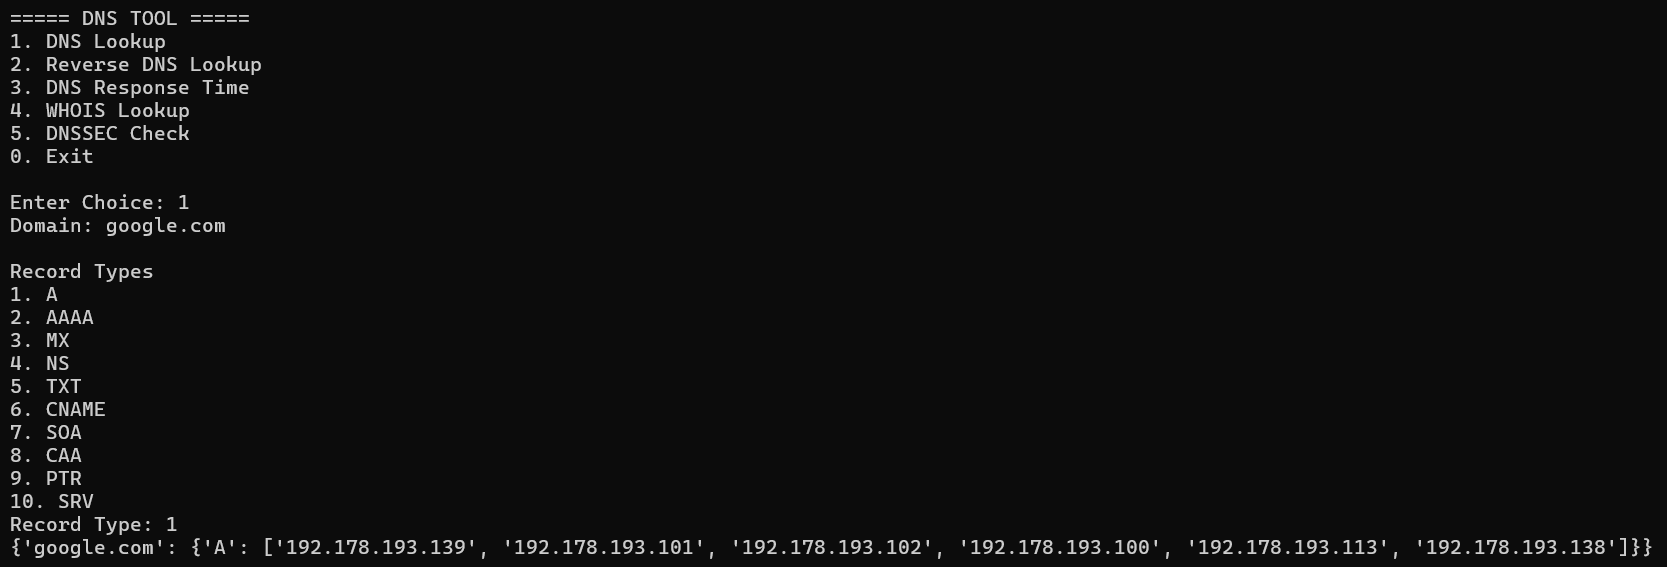
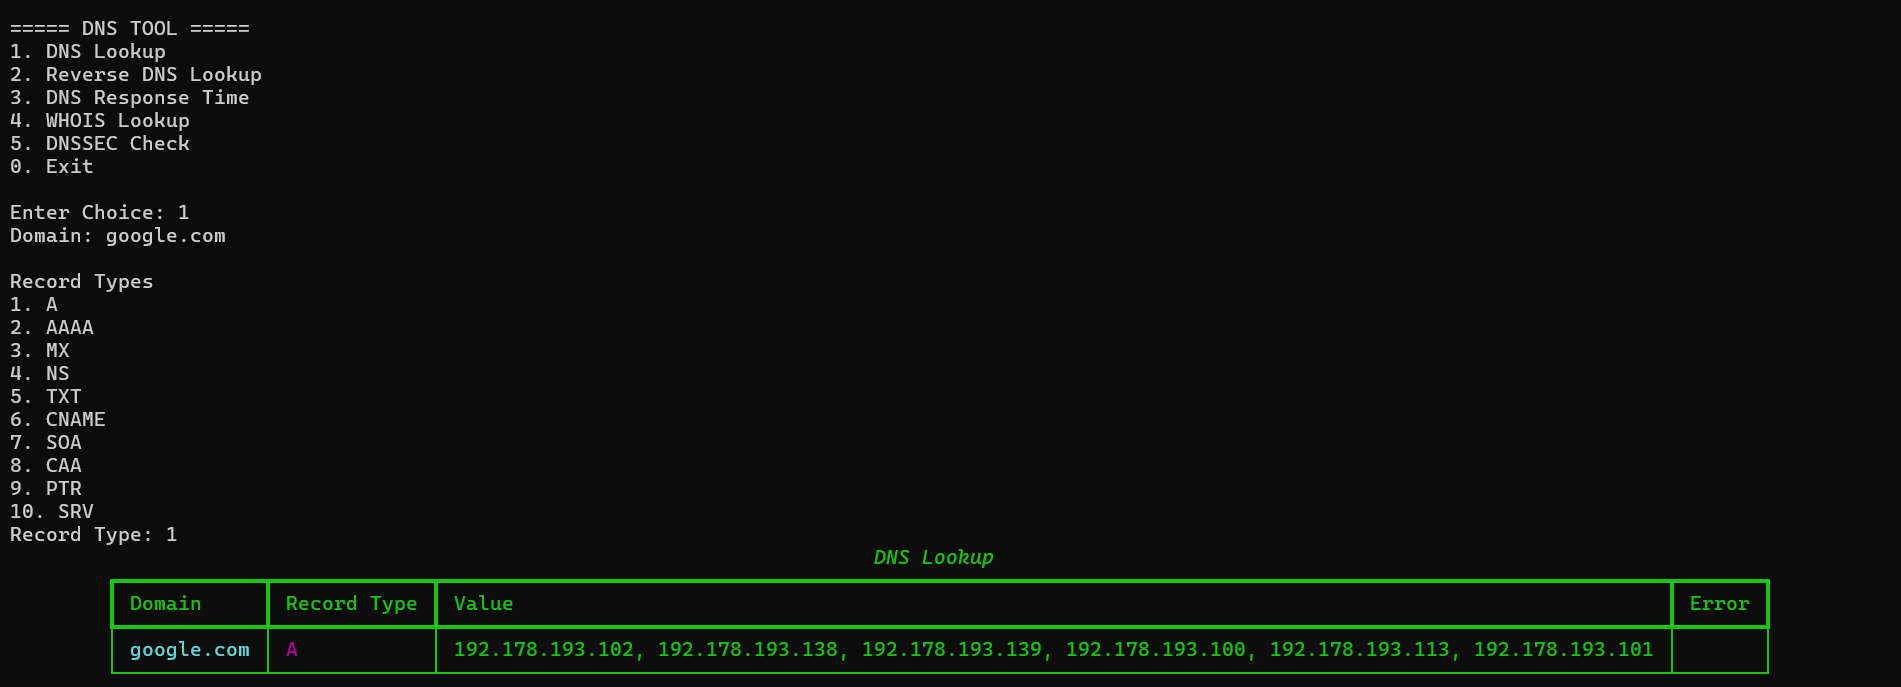
CLI

Changed region(s): [[0.0, 0.0, 0.9982, 0.9894]]

diff --git a/modules/whois_lookup.py b/modules/whois_lookup.py
@@ -1,7 +1,20 @@
 import whois
+from datetime import date, datetime
+from rich.table import Table
 
 
 class WhoisLookup:
+
+    def __init__(self):
+        self.table = Table(title="Whois Lookup")
+        self.table.add_column("Domain", style="cyan", no_wrap=True)
+        self.table.add_column("Registrar", style="magenta")
+        self.table.add_column("Creation Date", style="green")
+        self.table.add_column("Expiration Date", style="blue")
+        self.table.add_column("Updated Date", style="yellow")
+        self.table.add_column("Name Servers", style="red")
+        self.table.add_column("Status", style="purple")
+        self.table.add_column("Emails", style="bright_magenta")
 
     def lookup(self, domain):
         try:
@@ -9,22 +22,42 @@ class WhoisLookup:
 
             parsed = self._parse(data)
 
+            self.table.add_row(
+                parsed.get("domain_name", ""),
+                parsed.get("registrar", ""),
+                parsed.get("creation_date", ""),
+                parsed.get("expiration_date", ""),
+                parsed.get("updated_date", ""),
+                parsed.get("name_servers", ""),
+                parsed.get("status", ""),
+                parsed.get("emails", "")
+            )
             return self._format(parsed)
 
         except Exception as e:
+            self.table.add_row(domain, "", "", "", "", "", "", f"Error: {str(e)}")
             return self._handle_error(e)
 
     def _parse(self, data):
         return {
-            "domain_name": data.domain_name,
-            "registrar": data.registrar,
-            "creation_date": data.creation_date,
-            "expiration_date": data.expiration_date,
-            "updated_date": data.updated_date,
-            "name_servers": data.name_servers,
-            "status": data.status,
-            "emails": data.emails,
+            "domain_name": self._stringify(data.domain_name),
+            "registrar": self._stringify(data.registrar),
+            "creation_date": self._stringify(data.creation_date),
+            "expiration_date": self._stringify(data.expiration_date),
+            "updated_date": self._stringify(data.updated_date),
+            "name_servers": self._stringify(data.name_servers),
+            "status": self._stringify(data.status),
+            "emails": self._stringify(data.emails),
         }
+
+    def _stringify(self, value):
+        if value is None:
+            return ""
+        if isinstance(value, (list, tuple, set)):
+            return ", ".join(self._stringify(item) for item in value)
+        if isinstance(value, (datetime, date)):
+            return value.strftime("%Y-%m-%d %H:%M:%S")
+        return str(value)
 
     def _format(self, data):
         return {

diff --git a/main.py b/main.py
@@ -3,6 +3,9 @@ from modules.reverse_lookup import ReverseLookup
 from modules.response_time import DNSResponseTime
 from modules.whois_lookup import WhoisLookup
 from modules.dnssec import DNSSEC
+from modules.export_json import Export
+
+from rich.console import Console
 
 
 class DNSTool:
@@ -13,6 +16,7 @@ class DNSTool:
         self.response_time = DNSResponseTime()
         self.whois_lookup = WhoisLookup()
         self.dnssec = DNSSEC()
+        self.exporter = Export()
 
     def menu(self):
         while True:
@@ -47,6 +51,17 @@ class DNSTool:
 
             else:
                 print("Invalid Choice")
+
+    def _export_result(self, data, prefix, domain=None):
+        filename = self.exporter.build_filename(prefix, domain)
+        result = self.exporter.export_json(data, filename)
+
+        if result.get("status") == "success":
+            print(f"Exported to {result['file']}")
+        else:
+            print(f"Export failed: {result.get('message', 'Unknown error')}")
+
+        return result
 
     def dns_lookup_menu(self):
         domain = input("Domain: ").strip()
@@ -84,14 +99,16 @@ class DNSTool:
 
         result = self.dns_lookup.lookup(domain, record_map[choice])
 
-        print(result)
+        self._export_result(result, "dns_lookup", domain)
+        Console().print(self.dns_lookup.table, justify="center", style="bold green")
 
     def reverse_lookup_menu(self):
         ip = input("IP Address: ").strip()
 
         result = self.reverse_lookup.lookup(ip)
 
-        print(result)
+        self._export_result(result, "reverse_lookup", ip)
+        Console().print(self.reverse_lookup.table, justify="center", style="bold green")
 
     def response_time_menu(self):
         domain = input("Domain: ").strip()
@@ -132,21 +149,24 @@ class DNSTool:
             record_map[choice]
         )
 
-        print(result)
+        self._export_result(result, "response_time", domain)
+        Console().print(result, justify="center", style="bold green")
 
     def whois_lookup_menu(self):
         domain = input("Domain: ").strip()
 
         result = self.whois_lookup.lookup(domain)
 
-        print(result)
+        self._export_result(result, "whois_lookup", domain)
+        Console().print(self.whois_lookup.table, justify="center", style="bold green")
 
     def dnssec_menu(self):
         domain = input("Domain: ").strip()
 
         result = self.dnssec.check(domain)
 
-        print(result)
+        self._export_result(result, "dnssec", domain)
+        Console().print(self.dnssec.table, justify="center", style="bold green")
 
 
 if __name__ == "__main__":

diff --git a/modules/dnssec.py b/modules/dnssec.py
@@ -1,23 +1,42 @@
 import dns.resolver
+from rich.table import Table
 
 
 class DNSSEC:
+
+    def __init__(self):
+        self.table = Table(title="DNSSEC Check")
+        self.table.add_column("Domain", style="cyan", no_wrap=True)
+        self.table.add_column("Enabled", style="green")
+        self.table.add_column("DNSKEY", style="magenta")
+        self.table.add_column("DS", style="blue")
+        self.table.add_column("RRSIG", style="yellow")
 
     def check(self, domain):
         try:
             dnskey = self._query_dnskey(domain)
             ds = self._query_ds(domain)
             rrsig = self._query_rrsig(domain)
+            enabled = bool(dnskey and ds and rrsig)
+
+            self.table.add_row(
+                domain,
+                "Yes" if enabled else "No",
+                "\n".join(dnskey) if dnskey else "Not found",
+                "\n".join(ds) if ds else "Not found",
+                "\n".join(rrsig) if rrsig else "Not found",
+            )
 
             return {
                 "domain": domain,
-                "dnssec_enabled": bool(dnskey and ds and rrsig),
+                "dnssec_enabled": enabled,
                 "DNSKEY": dnskey,
                 "DS": ds,
                 "RRSIG": rrsig,
             }
 
         except Exception as e:
+            self.table.add_row(domain, "Error", "", "", f"Error: {str(e)}")
             return self._handle_error(e)
 
     def _query_dnskey(self, domain):

diff --git a/modules/response_time.py b/modules/response_time.py
@@ -1,8 +1,16 @@
 import time
 import dns.resolver
+from rich.table import Table
 
 
 class DNSResponseTime:
+    def __init__(self):
+        self.table = Table(title="DNS Response Time")
+        self.table.add_column("Domain", style="cyan", no_wrap=True)
+        self.table.add_column("Record Type", style="magenta")
+        self.table.add_column("Response Time (ms)", style="green")
+        self.table.add_column("Records", style="blue")
+
     def measure(self, domain, record_type="A"):
         try:
             resolver = self._create_resolver()
@@ -12,12 +20,9 @@ class DNSResponseTime:
 
             end_time = time.perf_counter()
 
-            return {
-                "domain": domain,
-                "record_type": record_type,
-                "response_time_ms": self._calculate_time(start_time, end_time),
-                "records": [str(ans) for ans in answers]
-            }
+            self.table.add_row(domain, record_type, str(self._calculate_time(start_time, end_time)), ", ".join([str(ans) for ans in answers]))
+
+            return self.table
 
         except Exception as e:
             return self._handle_error(e)

diff --git a/modules/dns_lookup.py b/modules/dns_lookup.py
@@ -1,9 +1,15 @@
 import dns.resolver
+from rich.table import Table
 
 
 class DNSLookup:
     def __init__(self):
         self.output = {}
+        self.table = Table(title="DNS Lookup")
+        self.table.add_column("Domain", style="cyan", no_wrap=True)
+        self.table.add_column("Record Type", style="magenta")
+        self.table.add_column("Value", style="green")
+        self.table.add_column("Error", style="red")
 
     def lookup(self, domain, record_type):
         try:
@@ -18,6 +24,7 @@ class DNSLookup:
             for ans in answers:
                 self.output[domain][record_type].append(str(ans))
 
+            self.table.add_row(domain, record_type, ", ".join(self.output[domain][record_type]), "")
             return self.output
         
         except Exception as e:

diff --git a/modules/reverse_lookup.py b/modules/reverse_lookup.py
@@ -1,14 +1,20 @@
 from dns import reversename
 import dns
+from rich.table import Table
 
 class ReverseLookup:
     def __init__(self):
         self.output = {}
+        self.table = Table(title="Reverse DNS Lookup")
+        self.table.add_column("IP Address", style="cyan", no_wrap=True)
+        self.table.add_column("Hostname", style="magenta")
 
     def lookup(self, ip):
         reverse_name = self._reverse_name(ip)
         if isinstance(reverse_name, dict):
+            self.table.add_row(ip, reverse_name.get("Error", ""))
             return reverse_name
+        self.table.add_row(ip, reverse_name)
         return self._resolve_ptr(reverse_name)
 
     def _reverse_name(self, ip):

diff --git a/modules/export_json.py b/modules/export_json.py
@@ -1,5 +1,6 @@
-import os
 import json
+import os
+import re
 
 
 class Export:
@@ -18,6 +19,12 @@ class Export:
 
         except Exception as e:
             return self._handle_error(e)
+
+    def build_filename(self, prefix, domain=None):
+        safe_domain = re.sub(r"[^A-Za-z0-9._-]+", "_", domain or "result").strip("._")
+        if not safe_domain:
+            safe_domain = "result"
+        return f"{prefix}_{safe_domain}.json"
 
     def _create_output_directory(self):
         output_dir = "output"

diff --git a/README.md b/README.md
@@ -93,8 +93,20 @@ You can customize global settings in [config.py](file:///d:/AI%20Study/python/dn
 
 ### DNS Lookup
 
-![DNS Lookup](screenshots/DNS_Lookup.png)
+![DNS Lookup](screenshots/dns_lookup.png)
+
+### Reverse DNS Lookup
+
+![Reverse DNS Lookup](screenshots/reverse_dns_lookup.png)
+
+### DNS Response Time
+
+![DNS Response Time](screenshots/dns_response_time.png)
 
 ### WHOIS Lookup
 
-![WHOIS Lookup](screenshots/whois_lookup.png)
+![WHOIS Lookup](screenshots/whoois_lookup.png)
+
+### DNSSEC Check
+
+![DNSSEC Check](screenshots/dnssec_check.png)
